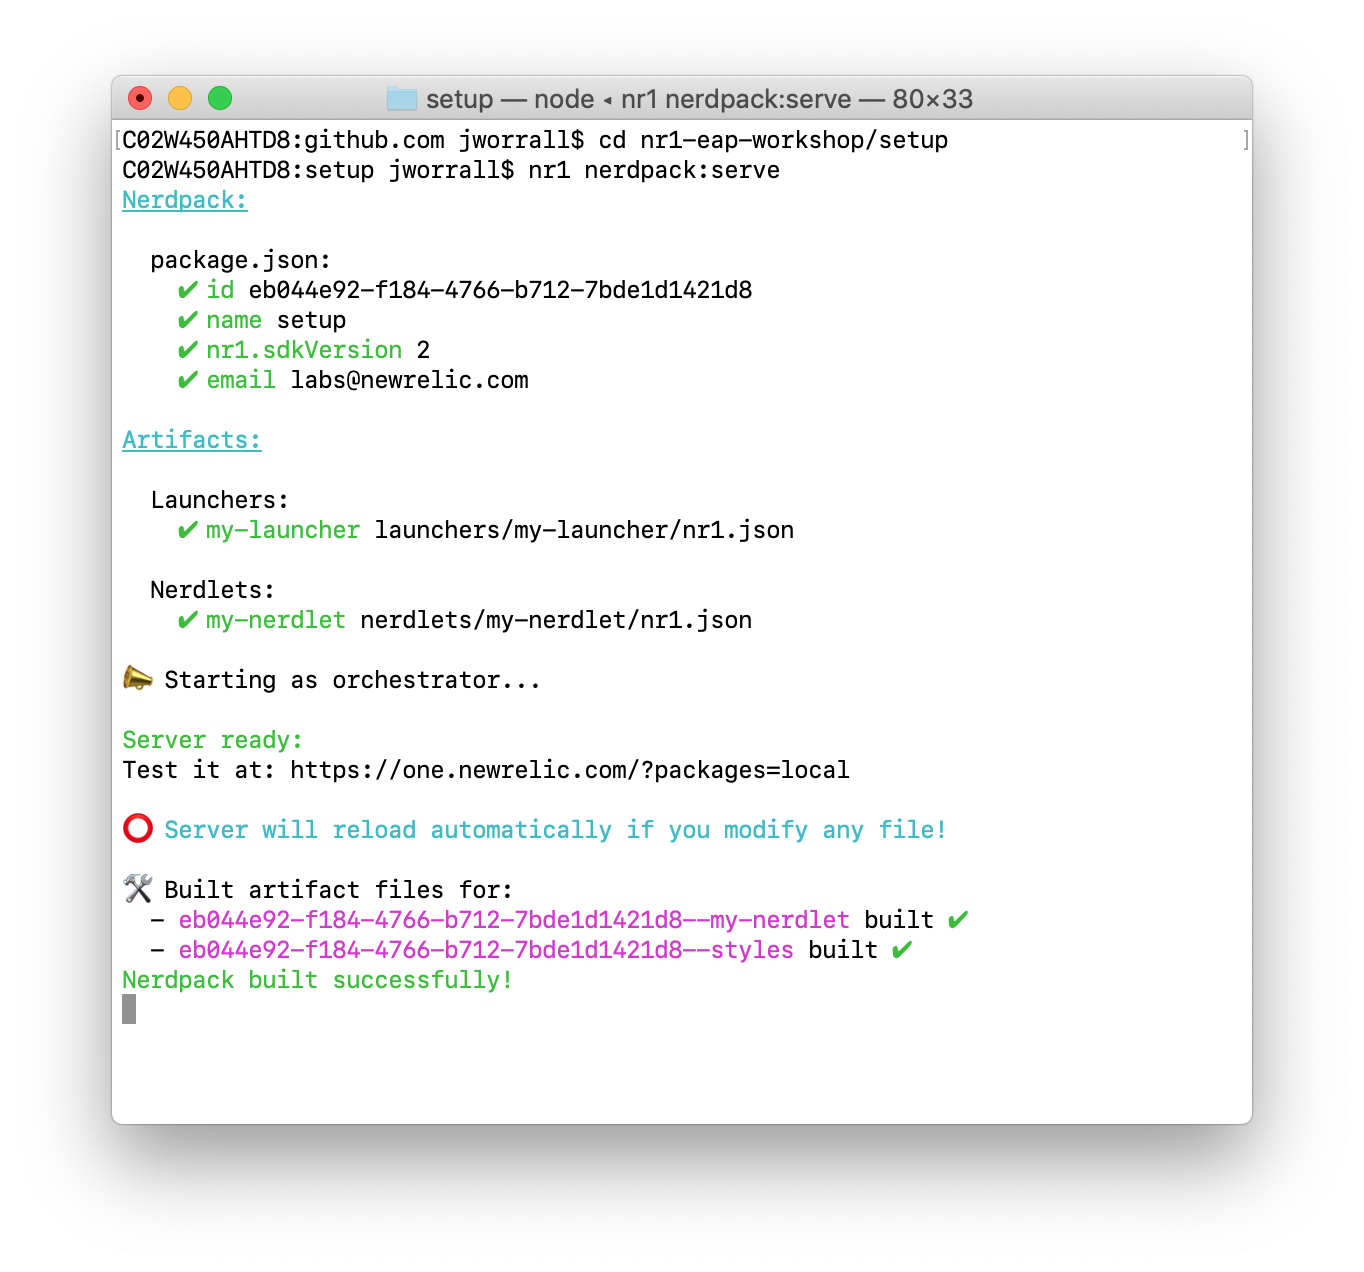
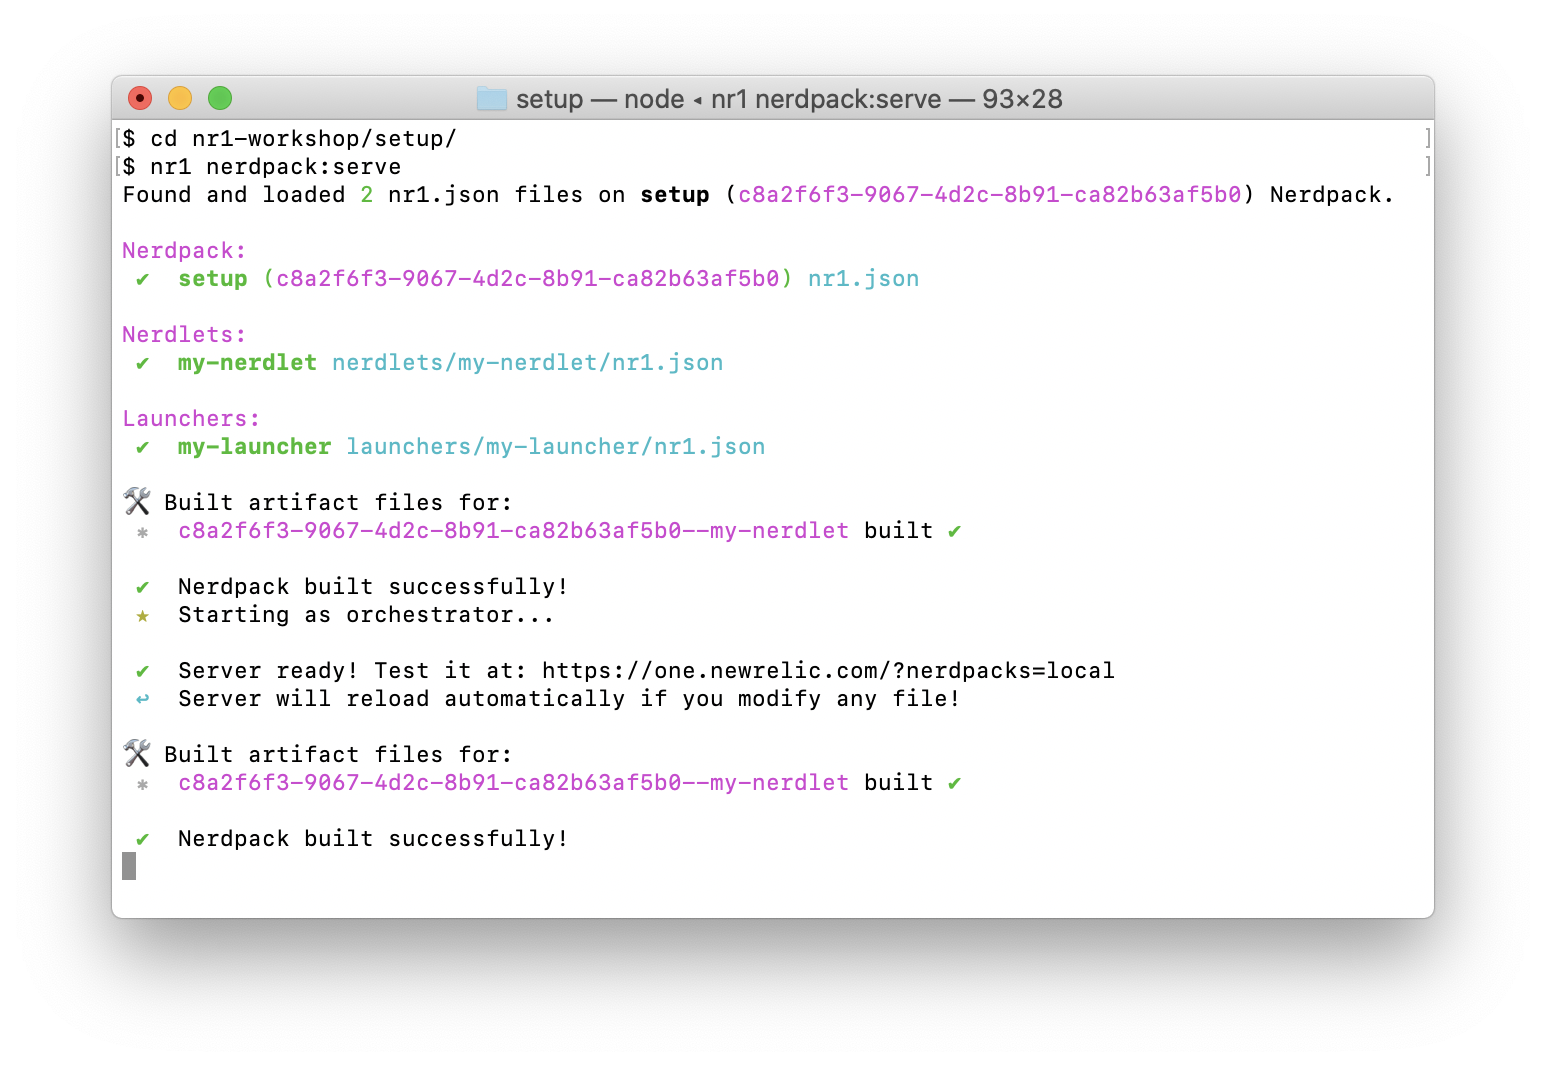
Updates to nr1-workshop setup guide

Changed region(s): [[0.0616, 0.0619, 0.9545, 0.8977], [0.4311, 0.3405, 0.4619, 0.3715]]

diff --git a/SETUP.md b/SETUP.md
@@ -1,30 +1,30 @@
 # Welcome!
 
-It's quick and easy to set up your environment to build [New Relic One applications](https://docs.newrelic.com/docs/new-relic-programmable-platform-introduction). In these setup instructions, you'll be setting up your system to run a local server that establishes a connection to the New Relic One platform. This connection makes building your New Relic One application easy because you can see your changes in real time. Enjoy!
+You can set up your environment to build [New Relic One applications](https://docs.newrelic.com/docs/new-relic-programmable-platform-introduction) in three steps. By the end of this guide, you'll have a local server with an established connection to the New Relic One platform, where you can see changes to your app in real time. Enjoy!
 
-# Setup Instructions
+## Setting up your environment
 
-To set up your environment to Build your own application:
+1. In your browser, go to [New Relic One](https://one.newrelic.com/) and follow the instructions to [**Build your own application**](https://one.newrelic.com/launcher/developer-center.launcher#pane=eyJuZXJkbGV0SWQiOiJkZXZlbG9wZXItY2VudGVyLmRldmVsb3Blci1jZW50ZXIifQ==).
 
-1. In Google Chrome, go to [one.newrelic.com](https://one.newrelic.com/) and select [**build your own application**](https://one.newrelic.com/launcher/developer-center.launcher#pane=eyJuZXJkbGV0SWQiOiJkZXZlbG9wZXItY2VudGVyLmRldmVsb3Blci1jZW50ZXIifQ==). Follow the instructions.
+> **Important!** Some customers have enterprise-wide agreements with New Relic, prohibiting employees from accepting the Terms and Conditions of the developer program. Those persons will be unable to download the CLI. If you're effected by this, please reach out to your legal department and/or contact your New Relic sales representative to explore alternatives for becoming familiar with this material while honoring your company's employee policies.
 
-# Important
-
-Some customers have enterprise-wide agreements with New Relic, prohibiting employees from accepting the Terms and Conditions of the developer program. Those persons will be unable to download the CLI. If you're effected by this, please reach out to your legal department and/or contact your New Relic sales representative to explore alternatives for becoming familiar with this material while honoring your company's employee policies.
-
-2. To prepare to do the workshop, you need to clone the workshop repo:
+2. Clone the workshop repo:
 
 ```bash
 # if you haven't cloned the workshop repo already
 git clone https://github.com/newrelic/nr1-workshop.git
 ```
 
-_Note: Each exercise exists as a folder in this repository. Following the material will involve going into that directory, running `npm install`, standing up the local development server by running `nr1 nerdpack:serve`, and following the INSTRUCTIONS.md in the given folder._
+> **Note:** Each exercise exists as a folder in this repository. Following the material will involve four steps:
+>
+> 1. Navigating to the exercise's directory
+> 2. Running `npm install`
+> 3. Running `nr1 nerdpack:serve` to stand up a local server
+> 4. Following the _INSTRUCTIONS.md_ in the given folder
 
-3. Now start the `setup` NR1 package:
+3. Start the `setup` NR1 package:
 
 ```bash
-# ex. change directory into setup
 cd nr1-workshop/setup
 npm install
 nr1 nerdpack:uuid -gf
@@ -34,7 +34,16 @@ nr1 nerdpack:serve
 Your terminal output should look like the following:
 ![terminal](screenshots/setup_screen04.png)
 
-4. Open Google Chrome and go to [one.newrelic.com?nerdpacks=local](https://one.newrelic.com?nerdpacks=local) (this places locally served applications in New Relic One). Click on the launcher named `Setup exercise`. You should see the following:
-![Congratulations](screenshots/setup_screen05.png)
+Congratulations! You are now set up for building New Relic One applications. Learn how to view your Setup Exercise application in the next section.
 
-Great. [Now let's get started.](https://github.com/newrelic/nr1-workshop)
+## Viewing your app
+
+1. Open your browser to [New Relic One with local NerdPacks](https://one.newrelic.com?nerdpacks=local) (this places locally served applications in New Relic One) and navigate to Apps:
+
+![View Nerdpacks](screenshots/setup_screen05.png)
+
+2. Click on the "Setup Exercise" launcher. You should see the following:
+
+![Congratulations](screenshots/setup_screen06.png)
+
+Great. Now, you are ready to [get started.](https://github.com/newrelic/nr1-workshop)
